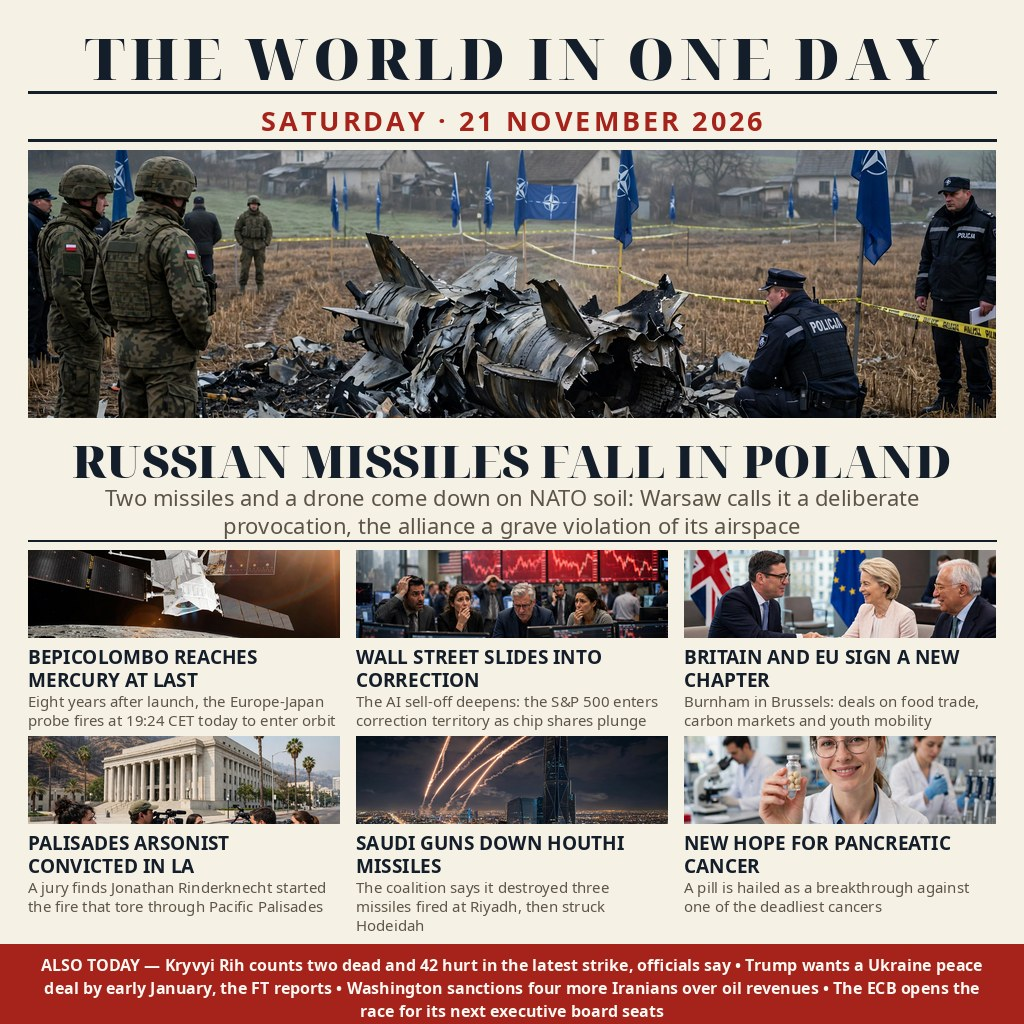
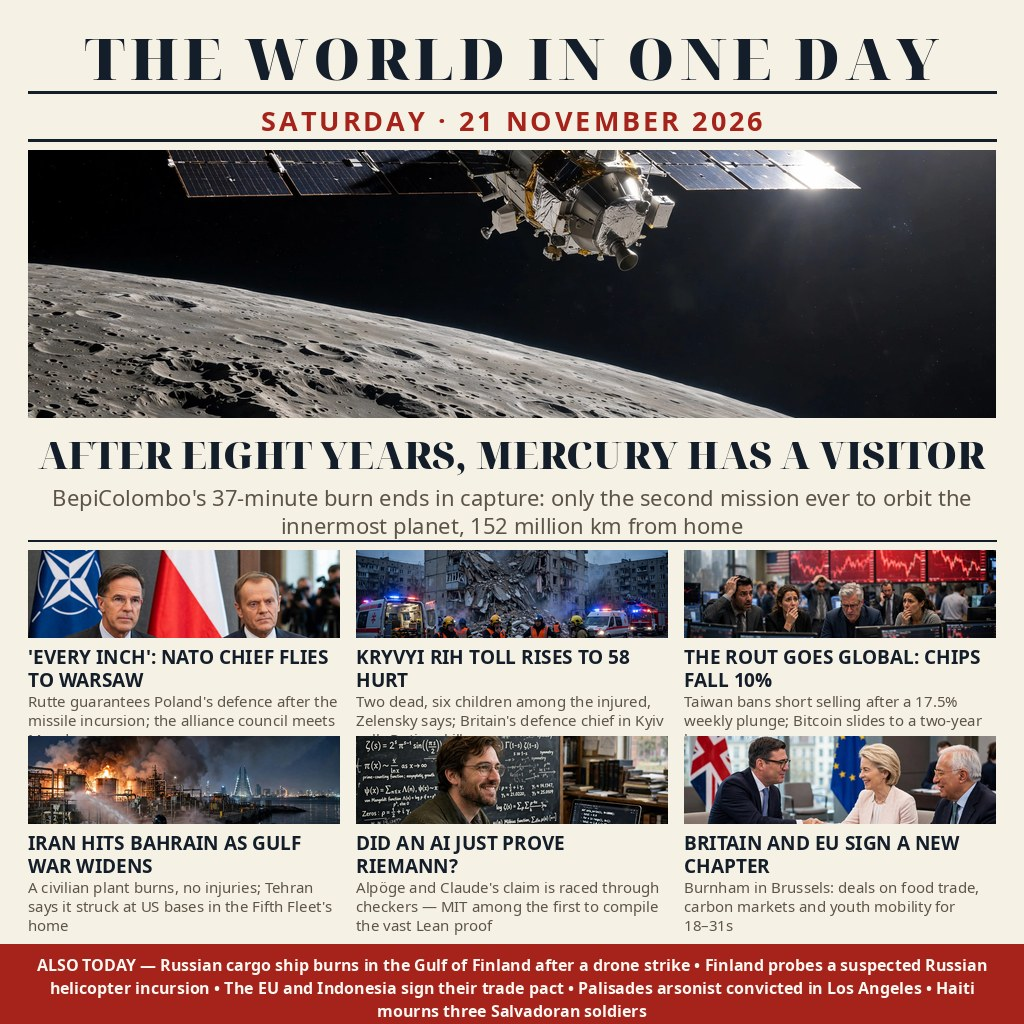
Full-day edition: BepiColombo captured by Mercury leads the 21 November front page

diff --git a/main.ts b/main.ts
@@ -3,13 +3,13 @@
 //
 // The poster beside this file (entry.png, a JPEG under a .png name, which
 // the gate allows: it reads the first bytes, not the name) sums up Saturday
-// 21 November 2026 in its morning edition: two Russian missiles and a drone
-// down in Poland draw a NATO warning, BepiColombo arrives at Mercury after
-// eight years, Wall Street slides into correction as the AI sell-off
-// deepens, Britain and the EU sign food, carbon and youth-mobility deals,
-// a Los Angeles jury convicts the Palisades Fire arsonist, Saudi air
-// defences down Houthi missiles over Riyadh, and a pill hailed as a
-// breakthrough for pancreatic cancer.
+// 21 November 2026 in its full-day edition: BepiColombo is captured by
+// Mercury after an eight-year journey, NATO's chief flies to Warsaw to
+// guarantee Poland's defence after the missile incursion, the Kryvyi Rih
+// toll rises, the global market rout deepens (chip index down a tenth,
+// Taiwan bans short selling), Iran hits a civilian plant in Bahrain, the
+// claimed AI-assisted proof of the Riemann hypothesis is raced through
+// verification, and Britain and the EU sign their Brussels deals.
 //
 // This program copies that image to the output directory untouched, so
 // both graded runs write exactly the same bytes.  Outside the grader's

diff --git a/README.md b/README.md
@@ -4,7 +4,7 @@
 [![rank](https://make.fun/badge/news-image-20261121/lkapi0819-cli/news-image-20261121/rank.svg)](https://make.fun/bounty/news-image-20261121/leaderboard?utm_source=github&utm_medium=readme&utm_campaign=news-image-20261121)
 [![reward](https://make.fun/badge/news-image-20261121/lkapi0819-cli/news-image-20261121/reward.svg)](https://make.fun/bounty/news-image-20261121?utm_source=github&utm_medium=readme&utm_campaign=news-image-20261121)
 
-"The World in One Day" — a front-page poster summing up Saturday 21 November 2026 in one 1024×1024 image, in its morning edition: two Russian missiles and a drone down in Poland draw a NATO warning, BepiColombo arrives at Mercury after eight years, Wall Street slides into correction as the AI sell-off deepens, Britain and the EU sign food, carbon and youth-mobility deals in Brussels, a Los Angeles jury convicts the Palisades Fire arsonist, Saudi air defences down Houthi missiles over Riyadh, and a pill hailed as a breakthrough for pancreatic cancer, plus a ticker of the day's other stories. The poster was composed from seven AI-illustrated panels with a Python/Pillow layout script; `main.ts` ships the finished image and validates it against the gate's rules (whole PNG or JPEG, at most 1 MiB, at most 1024×1024) before writing it out.
+"The World in One Day" — a front-page poster summing up Saturday 21 November 2026 in one 1024×1024 image, in its full-day edition: BepiColombo captured by Mercury after eight years (a 37-minute burn; only the second mission ever to orbit the innermost planet), NATO Secretary General Rutte in Warsaw guaranteeing Poland's defence after the Russian missile incursion, the Kryvyi Rih toll rising to two dead and 58 injured, the global rout deepening (chip index down 10%, Taiwan banning short sales after a 17.5% weekly plunge), Iran's strike on a civilian industrial facility in Bahrain, the claimed Alpöge–Claude proof of the Riemann hypothesis being raced through independent verification, and the UK-EU Brussels deals, plus a ticker of the day's other stories. The poster was composed from eight AI-illustrated panels with a Python/Pillow layout script; `main.ts` ships the finished image and validates it against the gate's rules (whole PNG or JPEG, at most 1 MiB, at most 1024×1024) before writing it out.
 
 ## Run it
 
@@ -14,7 +14,7 @@ mkdir -p out && MAKEFUN_OUTPUT_DIR=out node main.ts
 
 The program runs offline with the Node 22 standard library only, runs twice in grading, and must write identical bytes both times — it does, because it copies the shipped poster untouched after checking its magic bytes, its size and (for JPEG) its pixel dimensions.
 
-Stories are drawn from the morning reporting of 21 November 2026, cross-checked across the day's wires and digests: the Polish and NATO statements on the two missiles and drone that came down in Poland after the previous night's barrage on Ukraine, ESA's published BepiColombo timeline (Mercury orbit insertion at 19:24 CET on 21 November, eight years after its October 2018 launch), Friday's Wall Street close pushing the S&P 500 into correction territory, the Brussels UK-EU summit agreements on food trade, carbon markets and youth mobility, the Los Angeles jury's conviction of Jonathan Rinderknecht over the Palisades Fire, the Saudi-led coalition's account of three Houthi missiles destroyed over Riyadh and the reply strikes on Hodeidah, and the reported pancreatic-cancer pill breakthrough.
+Stories are drawn from the full day's reporting of 21 November 2026, cross-checked against the Reuters, AP and AFP wires: ESA's announcement that BepiColombo entered Mercury orbit on 21 November (37-minute burn at 19:24 CET, controllers in Germany confirming after several hours; AP's 94 million miles / 152 million km), Reuters' Warsaw dispatch on Rutte's guarantee and Monday's North Atlantic Council meeting, Zelensky's updated Kryvyi Rih toll (two dead, 58 injured, six of them children) and the British defence secretary's Kyiv remarks, Friday's global close (chip index down 10% in late US trading, Taiwan's regulator banning short selling from 23 November after a 17.5% weekly fall, Bitcoin at a two-year low), Reuters on Bahrain (an Iranian attack hitting a civilian industrial facility, fire, no injuries; the IRGC claiming US positions were the target), the verification race around Alpöge and Claude's claimed Riemann proof (MIT's Sutherland among the first to compile the Lean archive; the claim is not yet accepted), and the Brussels UK-EU agreements on food trade, carbon markets and youth mobility.
 
 ---
 
